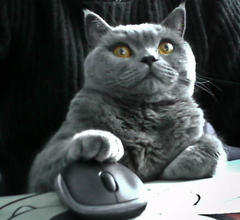
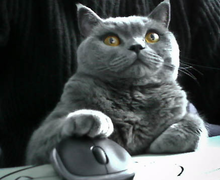
Fixed aspect ratio in image preview, removed text under polaroid

diff --git a/src/extensions/default/ImageUrlCodeHints/style.less b/src/extensions/default/ImageUrlCodeHints/style.less
@@ -3,12 +3,17 @@
 }
 
 #selfie-widget {
-  min-width: 560px;
+  min-width: 580px;
   overflow: hidden;
 }
 
 .emphasis {
   font-weight: bold;
+}
+
+.modal-body {
+  max-height: 290px;
+  overflow-y:hidden;
 }
 
 /* Button to take photos with */
@@ -66,8 +71,8 @@
 
 .polaroid {
   position: relative;
-  width: 220px;
   display:inline-block;
+  width: 224px;
 }
  
 .polaroid img {
@@ -76,17 +81,9 @@
   -webkit-box-shadow: 3px 3px 3px #777;
      -moz-box-shadow: 3px 3px 3px #777;
           box-shadow: 3px 3px 3px #777;
-    width:220px;
-    height:180px;
+    width:224px;
+    height:168px;
     display:inline-block;
-}
- 
-.polaroid p {
-  position: absolute;
-  text-align: center;
-  width: 100%;
-  bottom: 0px;
-  font: 400 18px/1 'Kaushan Script', cursive;
-  color: #888;
+    background-image: url("./selfiePreview.png");
 }
 

diff --git a/src/extensions/default/ImageUrlCodeHints/selfieWidget.html b/src/extensions/default/ImageUrlCodeHints/selfieWidget.html
@@ -7,10 +7,8 @@
 	</div>
 	<div id="selfie-gallery">
 	    <div class="polaroid">
-	    	<p>Your new selfie</p>
 	    	<img id="selfie-photo" /><br>
 		</div>
     </div>
-
-    <canvas id="selfie-canvas"></canvas>
 </div>
+<canvas id="selfie-canvas"></canvas>
